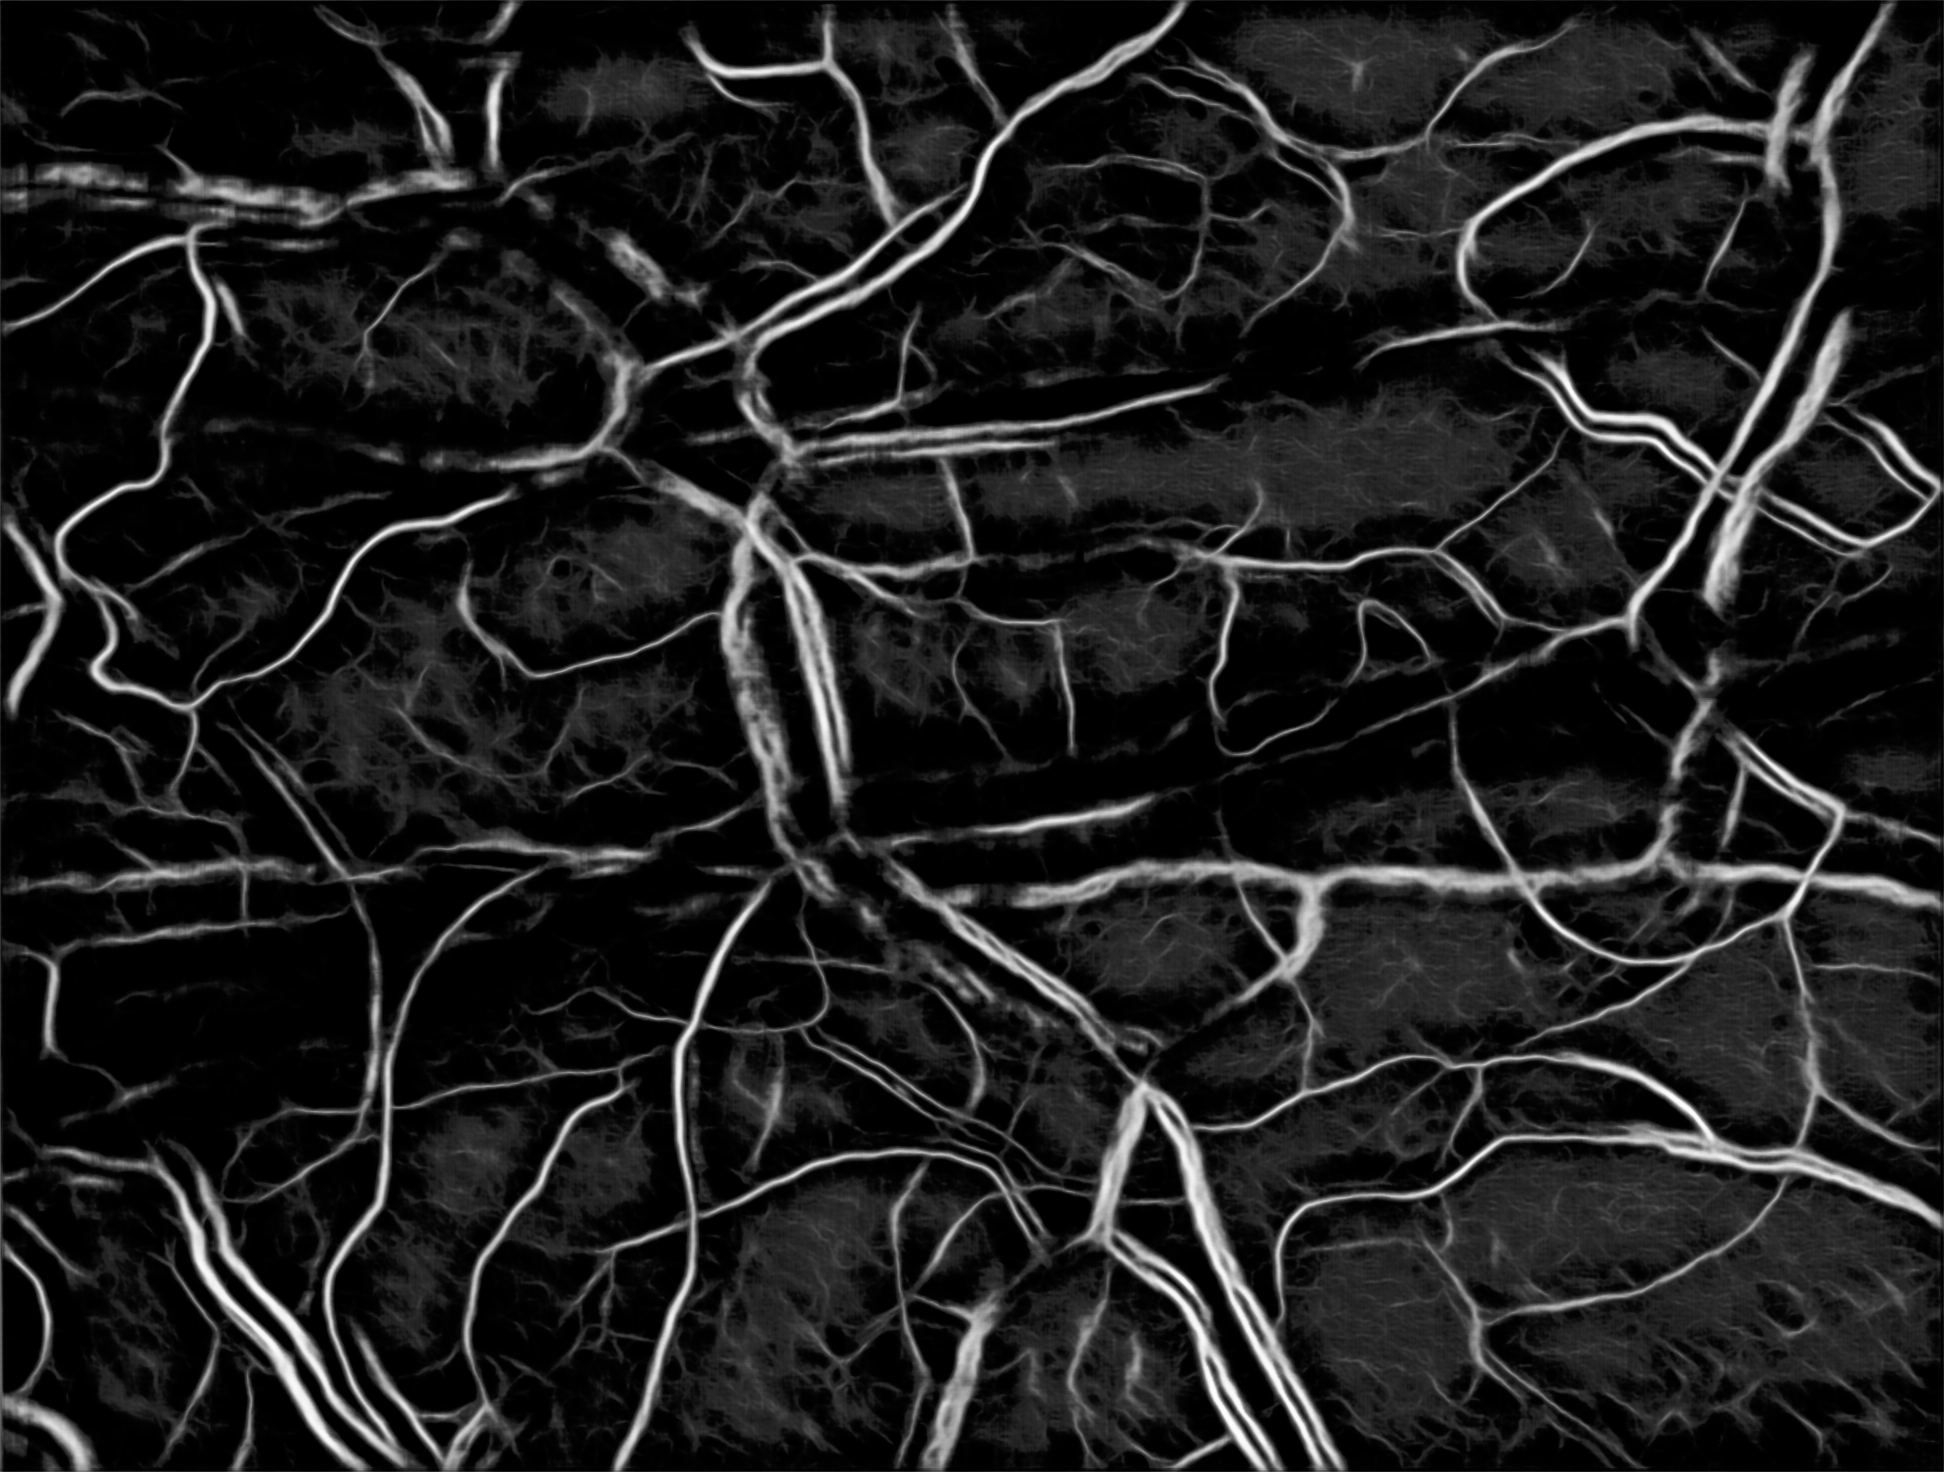
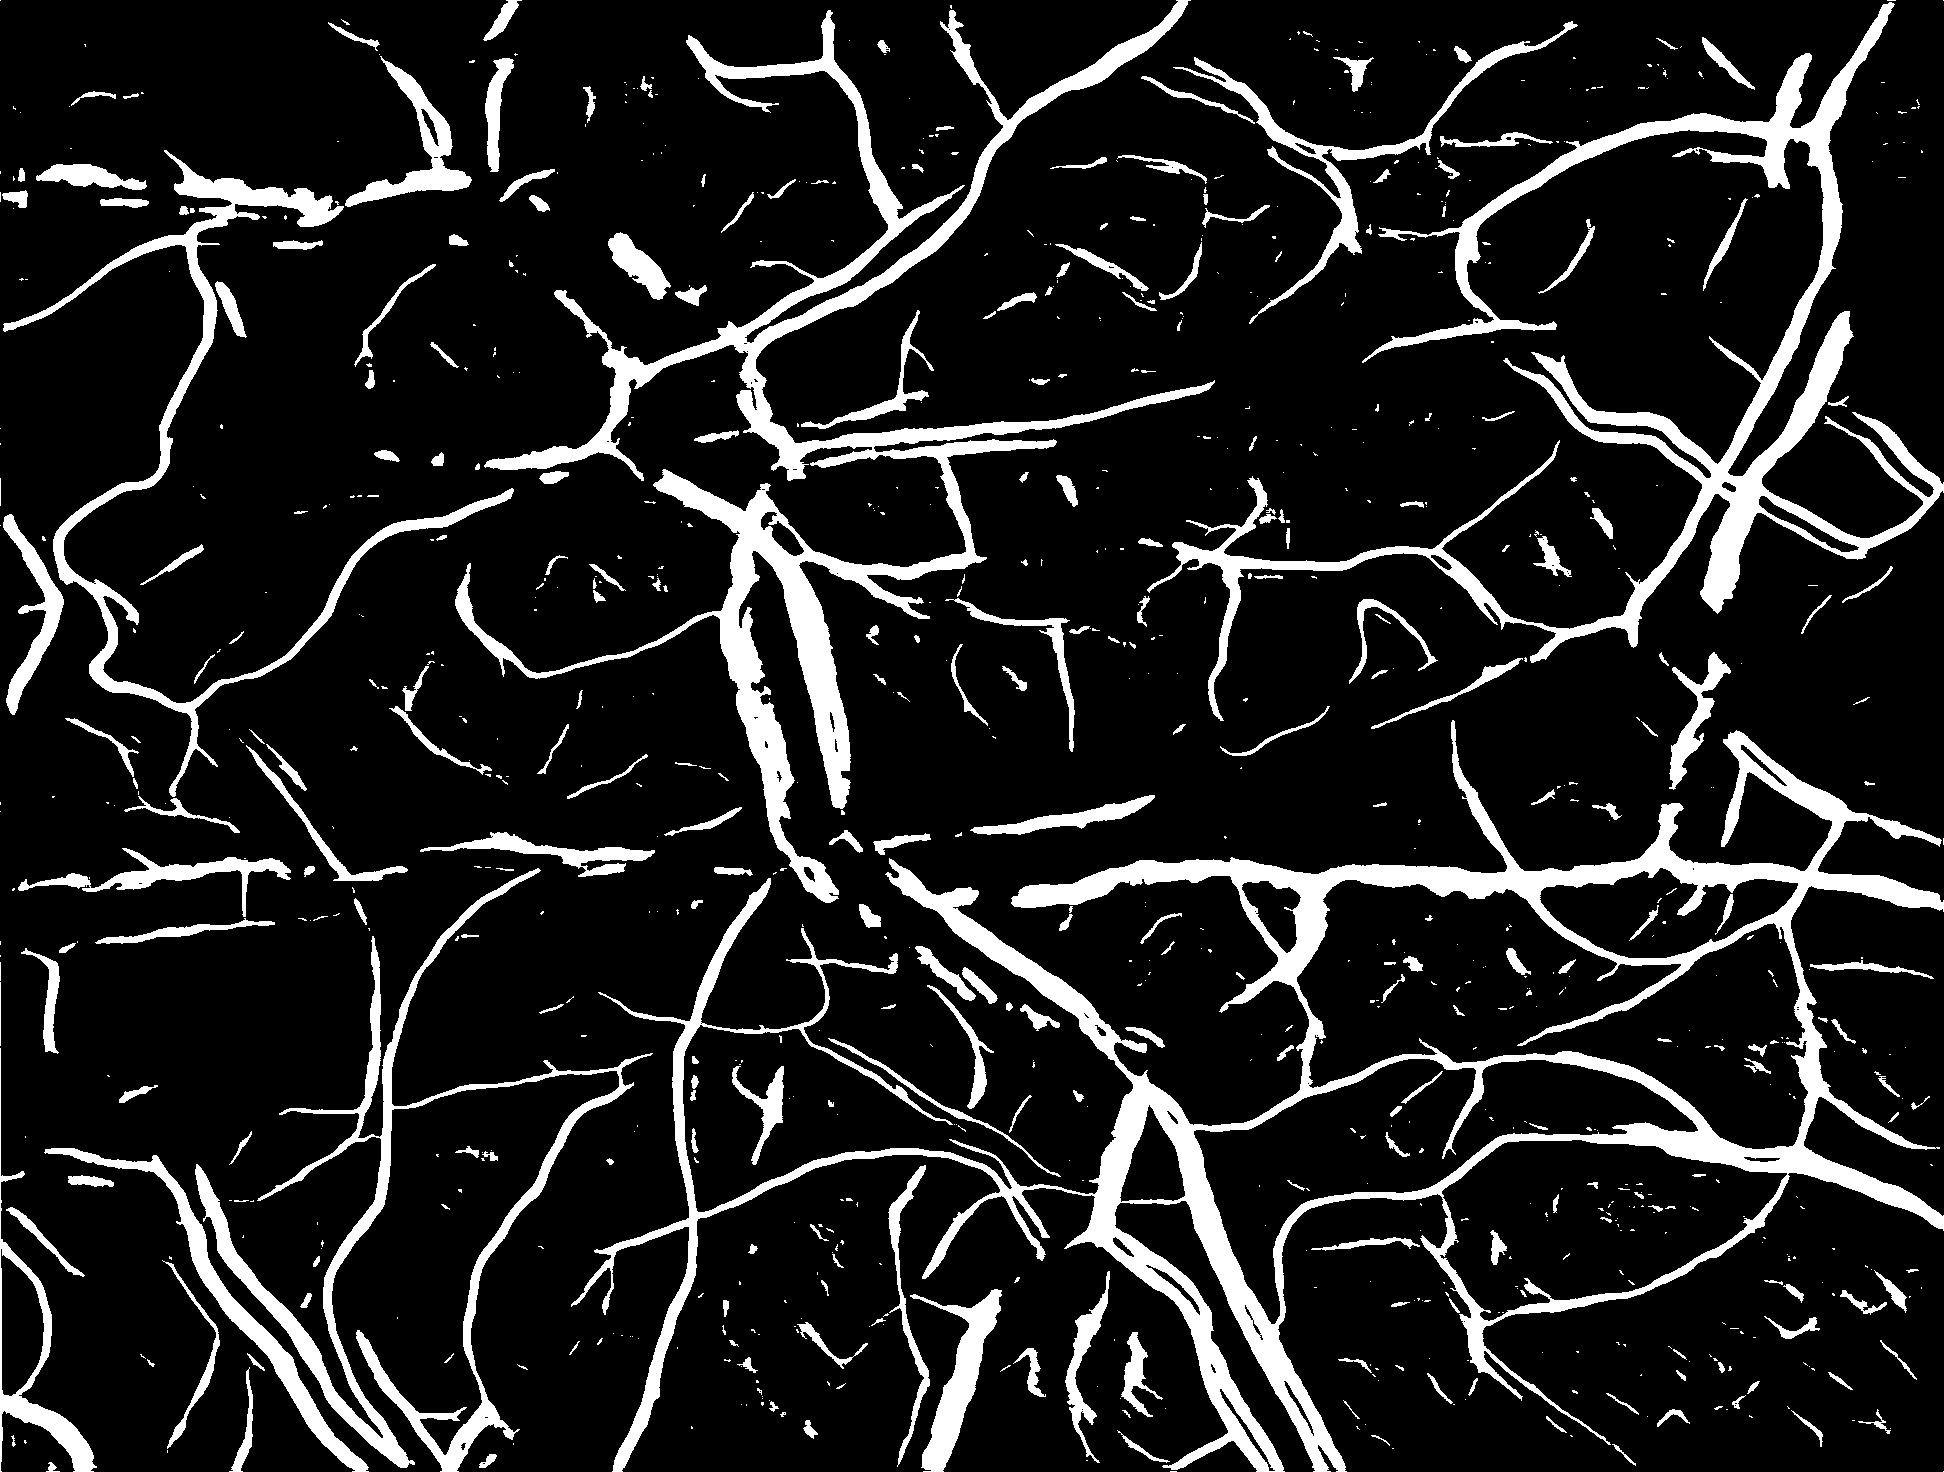
added thresholding to clean up vessel segmentation

diff --git a/analysis.py b/analysis.py
@@ -30,8 +30,9 @@ else:
     prediction = model.predict(hvi_image_batched)
     predicted_segmentation = prediction[0]*255.0
     print(np.shape(predicted_segmentation))
-    plt.imshow(predicted_segmentation, cmap='gray')
-    cv2.imwrite(segmentation_file_path, predicted_segmentation)
+    _, predicted_segmentation_thresholded = cv2.threshold(predicted_segmentation, 100, 255, cv2.THRESH_BINARY)
+    cv2.imwrite(segmentation_file_path, predicted_segmentation_thresholded)
+
 
 #Generate Central Axis Kymograph 
 eng = matlab.engine.start_matlab()
@@ -55,4 +56,3 @@ for t_factor in np.linspace(-4, 4, 3):
     print(np.round(t_factor, 1))
     binary_image = eng.variable_axis_kymograph_generation(translated_segment_file_path, image_sequence_dir, t_factor)
 eng.quit()
-
